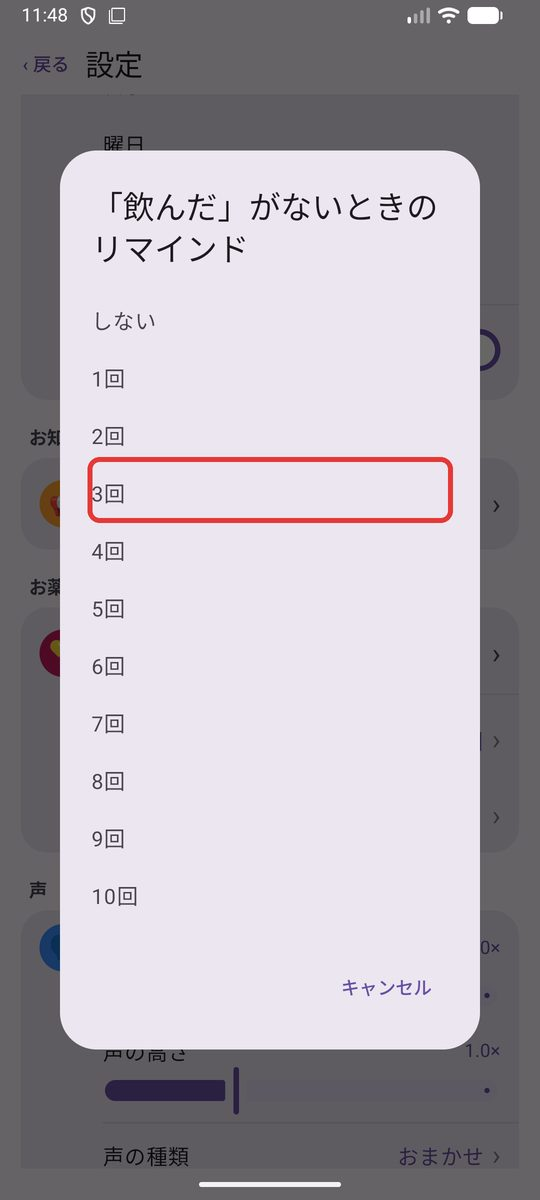
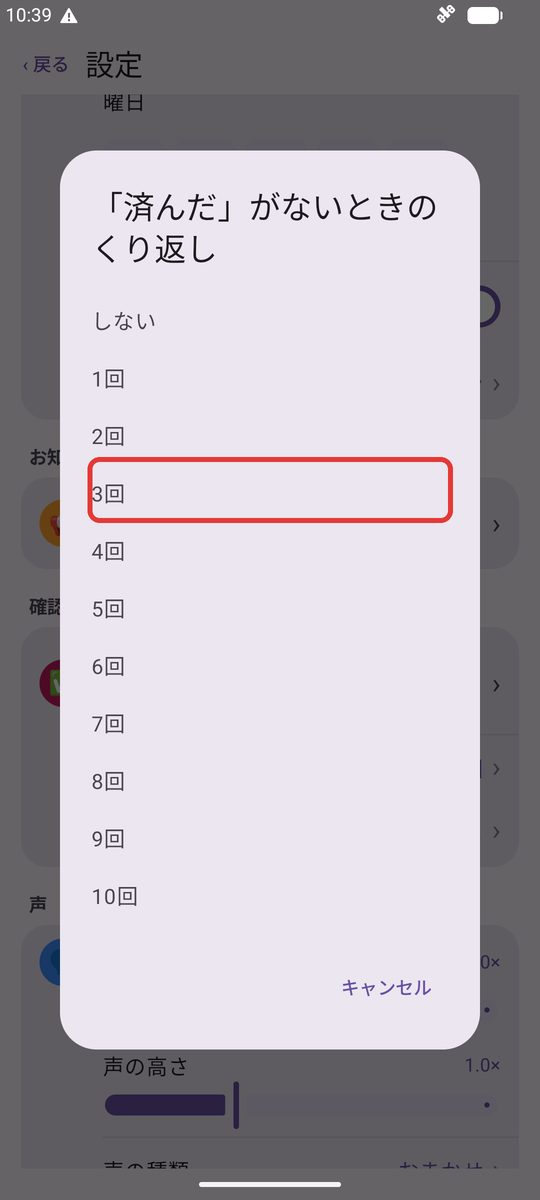
しゃべる時計：お薬リマインダーを「確認つきリマインダー」に書き直す（1.0.1）
- 使い方のページの 5. を確認つきリマインダーにし、例を植物の水やりにする。薬・服薬の言葉と注意書きをなくす
- 時計・設定・一覧・編集・くり返しの回数・声・チャイム・天気の画像 10 枚を 1.0.1 の画面で撮り直す（ファイル名も reminder に）
- 紹介ページ・プライバシーポリシー（日英）の文言を合わせる
- 合わせたバージョンを 1.0.1 にする

diff --git a/talking-clock/manual.html b/talking-clock/manual.html
@@ -5,21 +5,21 @@
 <meta name="viewport" content="width=device-width,initial-scale=1">
 <link rel="icon" href="images/icon.png">
 <title>使い方 - しゃべる時計（Talking Clock）</title>
-<meta name="description" content="しゃべる時計（Talking Clock）の使い方。時報、お知らせ、お薬リマインダー、声の設定、充電中だけしゃべる、着せ替え。">
+<meta name="description" content="しゃべる時計（Talking Clock）の使い方。時報、お知らせ、確認つきリマインダー、声の設定、充電中だけしゃべる、着せ替え。">
 <style>body{font-family:sans-serif;max-width:720px;margin:24px auto;padding:0 16px;line-height:1.7;color:#222}h1{font-size:1.4em}h2{font-size:1.15em;margin-top:2.2em;padding-bottom:.2em;border-bottom:1px solid #ddd}h3{font-size:1em;margin-top:1.5em}img{max-width:100%;height:auto}.shot{display:block;max-width:240px;border-radius:8px;margin:12px 0;border:1px solid #ddd}.shots{display:flex;flex-wrap:wrap;gap:12px}.toc{background:#f3f5f9;border-radius:8px;padding:12px 16px 12px 36px}.note{font-size:.9em;color:#555}.tip{background:#eef3fb;border-left:4px solid #3d6bd9;padding:8px 12px;margin:12px 0}ol li,ul li{margin:.2em 0}</style>
 </head>
 <body>
 <p><a href="./">しゃべる時計 の紹介ページへ戻る</a></p>
 <h1>しゃべる時計 の使い方</h1>
-<p>しゃべる時計（Talking Clock）は、時刻を声で知らせる時計のアプリです。決めた時刻のお知らせや、お薬を飲む時間のリマインダーも声で読み上げます。</p>
-<p class="note">この説明は バージョン 1.0.0 の画面に合わせています（2026年11月27日。0.1.0 から画面は変わっていません）。画面はこれから変わることがあります。画像の赤い枠と番号は、説明の番号と同じところです。</p>
+<p>しゃべる時計（Talking Clock）は、時刻を声で知らせる時計のアプリです。決めた時刻のお知らせや、「済んだ」を押すまでくり返すリマインダーも声で読み上げます。</p>
+<p class="note">この説明は バージョン 1.0.1 の画面に合わせています（2026年11月27日、確認つきリマインダーの名前と文言を変更）。画面はこれから変わることがあります。画像の赤い枠と番号は、説明の番号と同じところです。</p>
 
 <ol class="toc">
 <li><a href="#start">はじめに</a></li>
 <li><a href="#clock">時計の画面</a></li>
 <li><a href="#chime">時報を決める</a></li>
 <li><a href="#announce">お知らせを作る</a></li>
-<li><a href="#medicine">お薬リマインダー</a></li>
+<li><a href="#reminder">確認つきリマインダー</a></li>
 <li><a href="#voice">声の設定（声の種類・あいさつ・充電中だけしゃべる）</a></li>
 <li><a href="#themes">着せ替えと文字盤</a></li>
 <li><a href="#weather">天気・直近の予定と、配置</a></li>
@@ -29,15 +29,15 @@
 
 <h2 id="start">1. はじめに</h2>
 <ol>
-<li>アプリを開き、通知の許可を聞かれたら「許可」を押します（画面を見ていないときに、時刻・お知らせ・お薬を通知で知らせるため）</li>
+<li>アプリを開き、通知の許可を聞かれたら「許可」を押します（画面を見ていないときに、時刻・お知らせ・リマインダーを通知で知らせるため）</li>
 <li>設定の画面の上に「時刻ちょうどに鳴らす許可がないため…」と出たら、「許可する」を押し、開いた画面でこのアプリをオンにします（時報が少し遅れないようにするため）</li>
 <li>音はメディアの音量で鳴ります。聞こえないときは、端末の音量ボタンでメディアの音量を上げてください</li>
 </ol>
 
 <h2 id="clock">2. 時計の画面</h2>
-<img class="shot" src="images/manual/clock.jpg" width="540" height="1200" loading="lazy" alt="時計の画面。お薬のカードの飲んだのボタン、いまの時刻を読むのボタン、設定のボタン">
+<img class="shot" src="images/manual/clock.jpg" width="540" height="1200" loading="lazy" alt="時計の画面。リマインダーのカードの済んだのボタン、いまの時刻を読むのボタン、設定のボタン">
 <ol>
-<li><strong>「✓ 飲んだ」</strong>：お薬の時間になると出るカードです。飲んだら押します（<a href="#medicine">5.</a>）</li>
+<li><strong>「✓ 済んだ」</strong>：リマインダーの時刻になると出るカードです。済んだら押します（<a href="#reminder">5.</a>）</li>
 <li><strong>「🔊 いまの時刻を読む」</strong>：押すと、いまの時刻を声で読みます。読んでいるあいだは「■」で止められます</li>
 <li><strong>「⚙」</strong>：設定の画面を開きます</li>
 </ol>
@@ -56,7 +56,7 @@
 <li><strong>「チャイムの音」</strong>：読み上げの前に鳴らす音を選びます（下の画像）</li>
 </ol>
 <ul>
-<li>「読み上げの前に音を鳴らす」が ON なら、読む前にチャイムが鳴ります。お薬の時間の前にも同じ音が鳴ります</li>
+<li>「読み上げの前に音を鳴らす」が ON なら、読む前にチャイムが鳴ります。リマインダーの時刻の前にも同じ音が鳴ります</li>
 <li>時刻は「3時ちょうどです」「3時半です」のように読みます</li>
 </ul>
 <h3>チャイムの音を選ぶ</h3>
@@ -82,36 +82,36 @@
 </ol>
 <p>一覧の右のスイッチで、お知らせごとに ON / OFF できます。</p>
 
-<h2 id="medicine">5. お薬リマインダー</h2>
-<p>お薬を飲む時間を登録しておくと、その時刻に声と通知で知らせます。「飲んだ」を押すまで、何回か知らせ直します。</p>
-<h3>お薬を登録する</h3>
+<h2 id="reminder">5. 確認つきリマインダー</h2>
+<p>植物の水やりやゴミ出しなど、やることと時刻を登録しておくと、その時刻に声と通知で知らせます。「済んだ」を押すまで、何回か知らせ直します。</p>
+<h3>リマインダーを登録する</h3>
 <div class="shots">
-<img class="shot" src="images/manual/settings-medicine.jpg" width="540" height="1200" loading="lazy" alt="設定のお薬のカード">
-<img class="shot" src="images/manual/medicine-list.jpg" width="540" height="1200" loading="lazy" alt="お薬リマインダーの一覧">
-<img class="shot" src="images/manual/medicine-edit.jpg" width="540" height="1200" loading="lazy" alt="お薬の編集">
+<img class="shot" src="images/manual/settings-reminder.jpg" width="540" height="1200" loading="lazy" alt="設定の確認つきリマインダーのカード">
+<img class="shot" src="images/manual/reminder-list.jpg" width="540" height="1200" loading="lazy" alt="確認つきリマインダーの一覧">
+<img class="shot" src="images/manual/reminder-edit.jpg" width="540" height="1200" loading="lazy" alt="リマインダーの編集">
 </div>
 <ol>
-<li>設定の「お薬」のカードの<strong>「お薬リマインダー」</strong>を押します（左の画像の 1）</li>
-<li>一覧（真ん中）の<strong>「＋ 追加」</strong>を押します。作ったお薬を直すときは、お薬の名前を押します</li>
-<li>編集の画面（右）で、<strong>「お薬の名前」</strong>（例：血圧の薬）を入れ、<strong>時刻</strong>を押して飲む時刻を選び、飲む<strong>曜日</strong>を押して選びます</li>
+<li>設定の「確認つきリマインダー」のカードの<strong>「確認つきリマインダー」</strong>を押します（左の画像の 1）</li>
+<li>一覧（真ん中）の<strong>「＋ 追加」</strong>を押します。作ったリマインダーを直すときは、その名前を押します</li>
+<li>編集の画面（右）で、<strong>「リマインダーの名前」</strong>（例：植物に水をやる）を入れ、<strong>時刻</strong>を押して知らせる時刻を選び、<strong>曜日</strong>を押して選びます</li>
 <li><strong>「保存」</strong>を押します</li>
 </ol>
 <ul>
-<li>朝・昼・晩など 1 日に何回も飲むときは、時刻ごとに 1 つずつ登録します</li>
-<li>一覧の右のスイッチで、お薬ごとに ON / OFF できます。やめるときは編集の画面の「削除」を押します</li>
+<li>1 日に何回も知らせたいときは、時刻ごとに 1 つずつ登録します</li>
+<li>一覧の右のスイッチで、1 つずつ ON / OFF できます。やめるときは編集の画面の「削除」を押します</li>
 </ul>
-<h3>お薬の時間になったら</h3>
+<h3>時刻になったら</h3>
 <ol>
-<li>「ピン・ポーン」のあと「お薬の時間です。血圧の薬を飲んでください。」と読み上げます</li>
+<li>「ピン・ポーン」のあと「植物に水をやるの時間です。」と読み上げます</li>
 <li>通知と、時計の画面のカードが出ます（<a href="#clock">2.</a> の画像の 1）</li>
-<li>飲んだら、時計の画面のカードか、通知の<strong>「飲んだ」</strong>を押します。カードと通知が消えます</li>
+<li>済んだら、時計の画面のカードか、通知の<strong>「済んだ」</strong>を押します。カードと通知が消えます</li>
 </ol>
-<div class="tip">「飲んだ」を押さないと、決めた間隔ごとに「血圧の薬は飲みましたか？」と知らせ直します。決めた回数を知らせ終わっても、カードは「飲んだ」を押すまで残ります。</div>
+<div class="tip">「済んだ」を押さないと、決めた間隔ごとに「植物に水をやるは済みましたか？」と知らせ直します。決めた回数を知らせ終わっても、カードは「済んだ」を押すまで残ります。</div>
 <h3>知らせ直す回数と間隔を変える</h3>
-<img class="shot" src="images/manual/remind-count.jpg" width="540" height="1200" loading="lazy" alt="リマインドの回数を選ぶ窓">
+<img class="shot" src="images/manual/remind-count.jpg" width="540" height="1200" loading="lazy" alt="くり返しの回数を選ぶ窓">
 <ul>
-<li>設定の「お薬」のカードの<strong>「「飲んだ」がないときのリマインド」</strong>を押し、「しない」〜「10回」から選びます（はじめは 3 回）</li>
-<li><strong>「リマインドの間隔」</strong>を押し、1 分〜60 分から選びます（はじめは 5 分ごと）</li>
+<li>設定の「確認つきリマインダー」のカードの<strong>「「済んだ」がないときのくり返し」</strong>を押し、「しない」〜「10回」から選びます（はじめは 3 回）</li>
+<li><strong>「くり返しの間隔」</strong>を押し、1 分〜60 分から選びます（はじめは 5 分ごと）</li>
 </ul>
 
 <h2 id="voice">6. 声の設定</h2>
@@ -120,7 +120,7 @@
 <ol>
 <li><strong>「声の種類」</strong>：押すと、端末に入っている声の一覧が出ます（下の画像）</li>
 <li><strong>「あいさつを付ける」</strong>：ON にすると、時報の前に「おはようございます」（4〜10 時）・「こんにちは」（11〜17 時）・「こんばんは」と言います</li>
-<li><strong>「充電中だけしゃべる」</strong>：ON にすると、電源につないでいるときだけ、時報・お知らせ・お薬を声で読みます。充電していないときは声で読まず、通知だけ出します（お薬はカードも出ます）</li>
+<li><strong>「充電中だけしゃべる」</strong>：ON にすると、電源につないでいるときだけ、時報・お知らせ・リマインダーを声で読みます。充電していないときは声で読まず、通知だけ出します（リマインダーはカードも出ます）</li>
 <li><strong>「試しに聞く」</strong>：いまの設定で時刻を読みます</li>
 </ol>
 <div class="tip">「充電中だけしゃべる」は、家では充電台に置いてしゃべらせ、持ち歩くときは静かにしたいときに便利です。「いまの時刻を読む」など自分で押したときは、充電していなくても読みます。</div>
@@ -244,14 +244,14 @@
 <p>メディアの音量を上げてください。端末の読み上げの機能（Google 音声サービスなど）が入っていないと読み上げられません。設定の「声の種類」の「声のデータを追加」から入れてください。</p>
 <h3>読み上げに料金はかかりますか？</h3>
 <p>かかりません。端末に入っている読み上げの機能を使っています。「ネット」の印がある声は、通信量を少し使います。</p>
-<h3>お薬の「飲んだ」を押し忘れました</h3>
-<p>カードは押すまで残ります。あとから押してもかまいません。同じお薬の次の時刻が来ると、新しい時刻のカードに変わります。</p>
+<h3>リマインダーの「済んだ」を押し忘れました</h3>
+<p>カードは押すまで残ります。あとから押してもかまいません。同じリマインダーの次の時刻が来ると、新しい時刻のカードに変わります。</p>
 <h3>データの扱いを詳しく知りたい</h3>
-<p><a href="privacy.html">プライバシーポリシー</a>をご覧ください。設定・お知らせ・お薬は、この端末の中にだけ保存します。</p>
+<p><a href="privacy.html">プライバシーポリシー</a>をご覧ください。設定・お知らせ・リマインダーは、この端末の中にだけ保存します。</p>
 
 <h2>お問い合わせ</h2>
 <p>DNGG-studio：<a href="mailto:dngg.studio@gmail.com">dngg.studio@gmail.com</a></p>
-<p class="note">本アプリは医療機器ではありません。お薬の飲み方は、医師・薬剤師の指示に従ってください。写真：<a href="https://unsplash.com/">Unsplash</a>。</p>
+<p class="note">写真：<a href="https://unsplash.com/">Unsplash</a>。</p>
 <p><a href="./">紹介ページへ戻る</a></p>
 <section class="dngg-apps" data-mode="others" data-current="talking-clock" data-lang="ja">
 <p><a href="../">DNGG-studio のアプリ一覧</a></p>

diff --git a/talking-clock/privacy.html b/talking-clock/privacy.html
@@ -10,7 +10,7 @@
 <body>
 <p><a href="./">しゃべる時計</a></p>
 <h1>しゃべる時計 プライバシーポリシー</h1>
-<p>制定日：2026年11月19日<br>改定日：2026年11月24日（お薬リマインダーを追加）<br>改定日：2026年11月25日（天気・直近の予定を追加）<br>改定日：2026年11月27日（バージョン 1.1.0 からの広告を追加）</p>
+<p>制定日：2026年11月19日<br>改定日：2026年11月24日（確認つきリマインダーを追加）<br>改定日：2026年11月25日（天気・直近の予定を追加）<br>改定日：2026年11月27日（バージョン 1.1.0 からの広告を追加）</p>
 <p>DNGG-studio（以下「運営者」）は、Android アプリ「しゃべる時計」（以下「本アプリ」）での利用者の情報の扱いを、次のとおり定めます。本アプリは時刻を表示し、時報やお知らせを声で知らせ、利用者が望むときは Google カレンダーの今日の予定を読み上げる時計のアプリです。<strong>運営者はサーバーを持たず、利用者の情報を運営者のもとに集めることはありません。</strong></p>
 
 <h2>1. Google アカウントから受け取る情報と使い方</h2>
@@ -35,9 +35,9 @@
 <h2>3. 端末の中に保存する情報</h2>
 <p>次の情報を利用者の端末の中だけに保存します。本アプリの外へ自動で送信されることはなく、アプリを削除すると消えます。</p>
 <ul>
-<li>設定（時報の時間帯・間隔・曜日、着せ替え、文字盤、時刻の大きさ、声の速さと高さ・種類、あいさつ、充電中だけしゃべる、表示、言語、予定を読む時刻、お薬のリマインドの回数と間隔、天気の場所、天気と予定の欄の配置）と、読み込んだ天気予報</li>
+<li>設定（時報の時間帯・間隔・曜日、着せ替え、文字盤、時刻の大きさ、声の速さと高さ・種類、あいさつ、充電中だけしゃべる、表示、言語、予定を読む時刻、確認つきリマインダーのくり返しの回数と間隔、天気の場所、天気と予定の欄の配置）と、読み込んだ天気予報</li>
 <li>お知らせの一覧（時刻・曜日・読み上げる文と声の種類、または利用者が選んだ音声ファイルの場所と名前）</li>
-<li>お薬リマインダーの一覧（お薬の名前・飲む時刻・曜日）と、まだ「飲んだ」を押していないお薬の時刻</li>
+<li>確認つきリマインダーの一覧（名前・時刻・曜日）と、まだ「済んだ」を押していないリマインダーの時刻</li>
 <li>つないだ Google アカウントのメールアドレス</li>
 <li>写真の着せ替えでダウンロードした写真と、利用者が背景に選んだ自分の写真（縮めた写し）</li>
 <li>設定を変えた回数と、最後に広告を出した時刻・初めて起動した時刻（広告を出しすぎないため。バージョン 1.1.0 から）</li>
@@ -95,7 +95,7 @@
 <hr>
 <div lang="en">
 <h1>Talking Clock Privacy Policy</h1>
-<p>Effective: November 19, 2026<br>Updated: November 24, 2026 (added medicine reminders)<br>Updated: November 25, 2026 (added weather and upcoming events)<br>Updated: November 27, 2026 (added ads from version 1.1.0)</p>
+<p>Effective: November 19, 2026<br>Updated: November 24, 2026 (added check-off reminders)<br>Updated: November 25, 2026 (added weather and upcoming events)<br>Updated: November 27, 2026 (added ads from version 1.1.0)</p>
 <p>This policy explains how DNGG-studio ("we") handles your information in the Android app "Talking Clock" ("the app"). The app shows the time, announces the time and your custom alerts out loud, and, if you choose, reads today's events from your Google Calendar. <strong>We run no servers, and we never collect your information.</strong></p>
 
 <h2>1. Information from your Google Account and how we use it</h2>
@@ -120,9 +120,9 @@
 <h2>3. Information stored on your device</h2>
 <p>The following is stored only on your device. It is never sent anywhere automatically and is deleted when you uninstall the app.</p>
 <ul>
-<li>Settings (chime hours, interval and days, theme, clock face, clock size, voice speed, pitch and type, greeting, speak only while charging, display, language, time to read events, medicine reminder count and interval, weather location, place and size of the weather and events panels) and the downloaded forecast</li>
+<li>Settings (chime hours, interval and days, theme, clock face, clock size, voice speed, pitch and type, greeting, speak only while charging, display, language, time to read events, check-off reminder repeat count and interval, weather location, place and size of the weather and events panels) and the downloaded forecast</li>
 <li>Your alerts (time, days, the text to read and its voice, or the location and name of the audio file you chose)</li>
-<li>Your medicine reminders (medicine name, time and days) and the times of medicine not yet marked as taken</li>
+<li>Your check-off reminders (name, time and days) and the times of reminders not yet marked as done</li>
 <li>The email address of the connected Google Account</li>
 <li>Photos downloaded for photo themes, and a resized copy of the photo you chose as your background</li>
 <li>How many times you changed settings, when an ad was last shown and when the app was first opened (to avoid showing too many ads; from version 1.1.0)</li>

diff --git a/talking-clock/index.html b/talking-clock/index.html
@@ -25,7 +25,7 @@
 <ul>
 <li><strong>時報：</strong>決めた時間帯・曜日に、1 分〜12 時間ごとの間隔で時刻を声で知らせます。読み上げの前に音も鳴らせます</li>
 <li><strong>お知らせ：</strong>決めた時刻に、好きな文を読み上げたり、選んだ音声ファイルを流したりできます。声の種類もお知らせごとに選べます</li>
-<li><strong>お薬リマインダー：</strong>お薬を飲む時間を登録すると、声と通知で知らせます。画面の「飲んだ」を押すまで、決めた回数・間隔で知らせ直します</li>
+<li><strong>確認つきリマインダー：</strong>植物の水やりなど、やることと時刻を登録すると、声と通知で知らせます。画面の「済んだ」を押すまで、決めた回数・間隔で知らせ直します</li>
 <li><strong>声：</strong>端末の声から声の種類を選べ、あいさつも付けられます。「充電中だけしゃべる」にすると、充電していないときは通知だけにします</li>
 <li><strong>今日の予定：</strong>Google カレンダーをつなぐと、今日の予定か直近 30 日の予定を時計の画面に出し、今日の予定は押したときや毎日決めた時刻に読み上げます（つなぐのは任意です）</li>
 <li><strong>天気：</strong>4 日分の天気・気温・降水確率を時計の画面に出せます（日本国内のみ）。天気と今日の予定の欄は、場所と大きさを自由に変えられます</li>
@@ -62,7 +62,7 @@
 <ul>
 <li><strong>Time announcements:</strong> hear the time every 1 minute to 12 hours, during the hours and on the days you choose, with an optional chime</li>
 <li><strong>Alerts:</strong> read out your own text or play an audio file you choose at set times, with a voice you choose for each alert</li>
-<li><strong>Medicine reminders:</strong> add the times you take medicine to get a voice and notification reminder, repeated until you tap Taken</li>
+<li><strong>Check-off reminders:</strong> add things to do and their times, such as watering plants, to get a voice and notification reminder, repeated until you tap Done</li>
 <li><strong>Voice:</strong> choose a voice from your device, add a greeting, and speak only while charging if you like</li>
 <li><strong>Today's events:</strong> connect Google Calendar (optional) to show today's events or the next 30 days on the clock, and have today's events read out on tap or every day at a set time</li>
 <li><strong>Weather:</strong> a 4-day forecast on the clock (Japan only). Move and resize the weather and events panels as you like</li>
